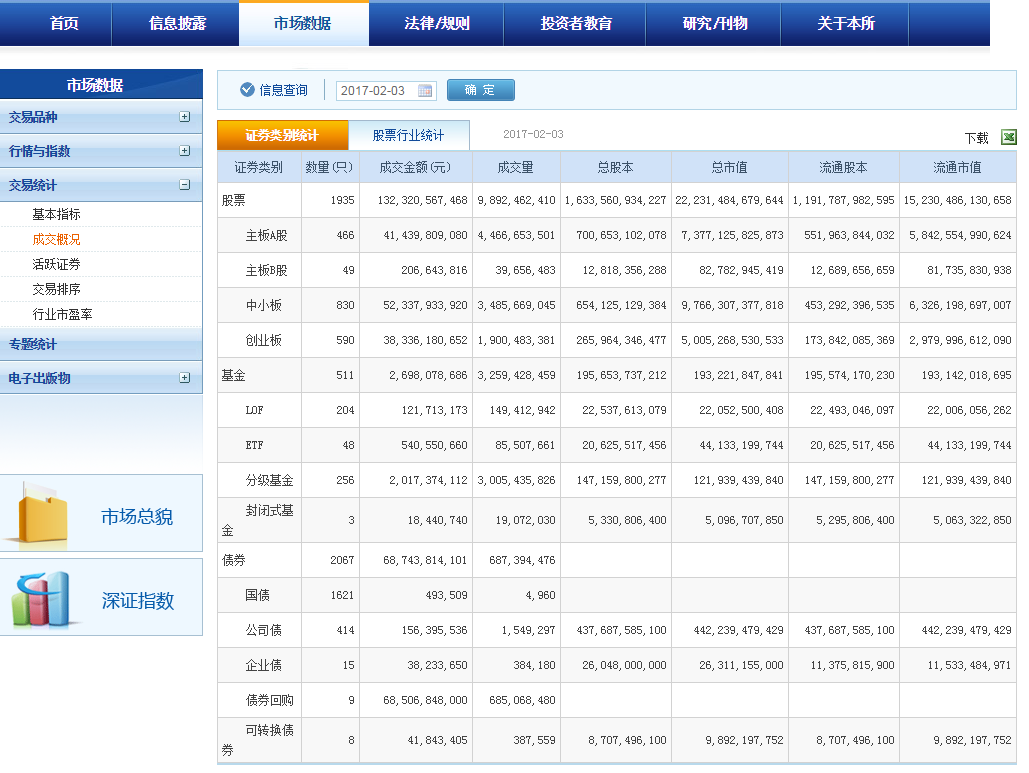
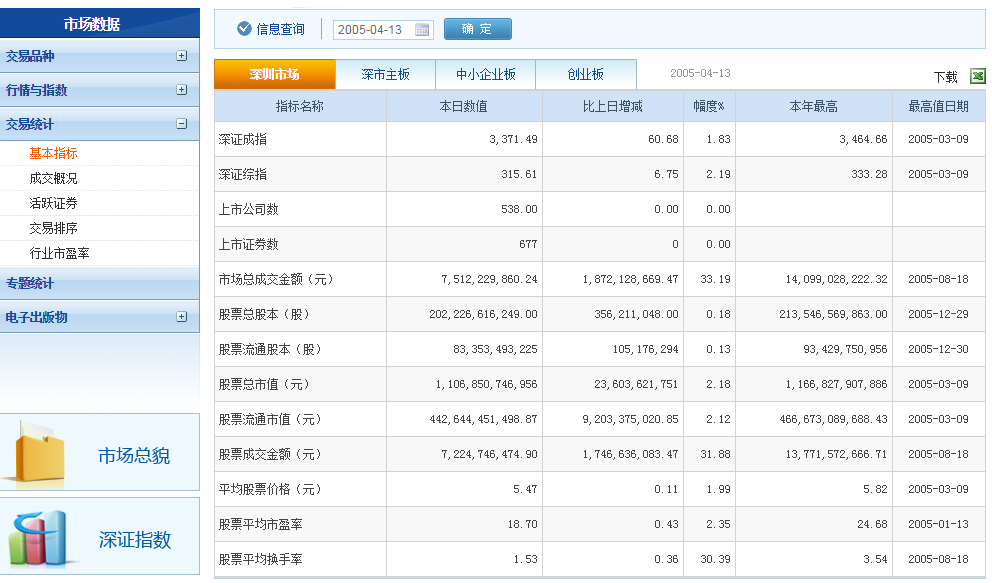
fix sthing

Changed region(s): [[0.0, 0.0, 1.0, 1.0]]

diff --git a/doc/shenzhen_stock_data_format.html b/doc/shenzhen_stock_data_format.html
@@ -1,7 +1,7 @@
-<table cellspacing='1' width="800" align="center">
+<table cellspacing='1' width="100%" align="center">
     <tr>
         <td align="left">
-            <table class="cls-search-table-common cls-search-table" width="800">
+            <table class="cls-search-table-common cls-search-table" width="100%">
                 <tbody>
                     <tr>
                         <td width="6" align="left" valign="top" background="/szseWeb/common/images/search05.gif">
@@ -23,10 +23,10 @@
                                     </td>
                                     <td align='left'>
                                         <span style="margin-left:5px;"></span>
-                                        <input value="2017-02-03" type="text" name="txtDate" id="1804_gid_tab1_con_txtDate" onkeypress="doReportInputboxClick(event,'1804','tab1')" class='cls-datepicker' onblur="blurJD()" onClick="getcalendar(this,'yyyy-mm-dd',event)" onFocus="this.select();" title="格式:YYYY-MM-DD" />
+                                        <input value="2005-04-13" type="text" name="txtQueryDate" id="1803_gid_tab1_con_txtQueryDate" onkeypress="doReportInputboxClick(event,'1803','tab1')" class='cls-datepicker' onblur="blurJD()" onClick="getcalendar(this,'yyyy-mm-dd',event)" onFocus="this.select();" title="格式:YYYY-MM-DD" />
                                         <input type='text' name='txtIgnore' style='display:none'>
                                             <span style="margin-left:10px;" />
-                                            <input type="button" id="1804_tab1_btn" value="" class="cls_search_button" onclick="submit1804tab1()" />
+                                            <input type="button" id="1803_tab1_btn" value="" class="cls_search_button" onclick="submit1803tab1()" />
                                             <td width="6" align="right" valign="top" background="/szseWeb/common/images/search06.gif">
                                                 <img src="/szseWeb/common/images/search03.gif" height="6" width="6" />
                                             </td>
@@ -42,190 +42,134 @@
                                                     <img src="/szseWeb/common/images/search04.gif" height="6" width="6" />
                                                 </td>
                                             </tr>
-                                            <table class='cls-title-table-common cls-title-table' bgcolor='#ffffff' width="800">
+                                            <table class='cls-title-table-common cls-title-table' bgcolor='#ffffff' width="100%">
                                                 <tr>
                                                     <td align='left' class='cls-title-td'>
-                                                    <div style='text-align:center;display:inline;width:110px;' class='cls-title-selected'>证券类别统计</div>
-                                                    <div style='text-align:center;display:inline;width:120px;' class='cls-title-deselected' onclick="switchTabItem('1804','tab2')">股票行业统计</div>&#160;&#160;&#160;
-                                                    <span class='cls-subtitle'>2017-02-03</span>
+                                                    <div style='text-align:center;display:inline;width:100px;' class='cls-title-selected'>深圳市场</div>
+                                                    <div style='text-align:center;display:inline;width:100px;' class='cls-title-deselected' onclick="switchTabItem('1803','tab2')">深市主板</div>
+                                                    <div style='text-align:center;display:inline;width:100px;' class='cls-title-deselected' onclick="switchTabItem('1803','tab3')">中小企业板</div>
+                                                    <div style='text-align:center;display:inline;width:100px;' class='cls-title-deselected' onclick="switchTabItem('1803','tab4')">创业板</div>&#160;&#160;&#160;
+                                                    <span class='cls-subtitle'>2005-04-13</span>
                                                     <span id='MESSAGE_ID'>&#160;</span></td>
                                                     <td>&#160;</td>
                                                     <td align='right' width='60px' valign='bottom'>
-                                                        <a href="/szseWeb/ShowReport.szse?SHOWTYPE=excel&amp;CATALOGID=1804&amp;txtDate=2017-02-03&amp;ENCODE=1&amp;TABKEY=tab1">下载&#160;
+                                                        <a href="/szseWeb/ShowReport.szse?SHOWTYPE=excel&amp;CATALOGID=1803&amp;txtQueryDate=2005-04-13&amp;ENCODE=1&amp;TABKEY=tab1">下载&#160;
                                                         <img style='VERTICAL-ALIGN: middle; padding-bottom:5px; border=' src='/szseWeb/common/images/excel.gif'>
-                                                            <table bgcolor='#E0E0E0' id="REPORTID_tab1" class='cls-data-table-common cls-data-table' border="0" cellspacing='1' width="800">
+                                                            <table bgcolor='#E0E0E0' id="REPORTID_tab1" class='cls-data-table-common cls-data-table' border="0" cellspacing='1' width="100%">
                                                                 <tr>
-                                                                    <th width='120px' bgcolor='#cde1fe'>证券类别</th>
-                                                                    <th width='80px' bgcolor='#cde1fe'>数量(只)</th>
-                                                                    <th width='120px' bgcolor='#cde1fe'>成交金额(元)</th>
-                                                                    <th width='80px' bgcolor='#cde1fe'>成交量</th>
-                                                                    <th width='100px' bgcolor='#cde1fe'>总股本</th>
-                                                                    <th width='100px' bgcolor='#cde1fe'>总市值</th>
-                                                                    <th width='100px' bgcolor='#cde1fe'>流通股本</th>
-                                                                    <th width='100px' bgcolor='#cde1fe'>流通市值</th>
+                                                                    <th bgcolor='#cde1fe'>指标名称</th>
+                                                                    <th bgcolor='#cde1fe'>本日数值</th>
+                                                                    <th bgcolor='#cde1fe'>比上日增减</th>
+                                                                    <th bgcolor='#cde1fe'>幅度%</th>
+                                                                    <th bgcolor='#cde1fe'>本年最高</th>
+                                                                    <th bgcolor='#cde1fe'>最高值日期</th>
                                                                 </tr>
                                                                 <tr bgcolor='#ffffff'>
-                                                                    <td width='120px' align='left'>股票</td>
-                                                                    <td width='80px' align='right'>1935</td>
-                                                                    <td width='120px' align='right'>132,320,567,468</td>
-                                                                    <td width='80px' align='right'>9,892,462,410</td>
-                                                                    <td width='100px' align='right'>1,633,560,934,227</td>
-                                                                    <td width='100px' align='right'>22,231,484,679,644</td>
-                                                                    <td width='100px' align='right'>1,191,787,982,595</td>
-                                                                    <td width='100px' align='right'>15,230,486,130,658</td>
+                                                                    <td align='left'>深证成指</td>
+                                                                    <td align='right'>3,371.49</td>
+                                                                    <td align='right'>60.68</td>
+                                                                    <td align='right'>1.83</td>
+                                                                    <td align='right'>3,464.66</td>
+                                                                    <td align='center'>2005-03-09</td>
                                                                 </tr>
                                                                 <tr bgcolor='#F8F8F8'>
-                                                                    <td width='120px' align='left'>&#160;&#160;主板A股</td>
-                                                                    <td width='80px' align='right'>466</td>
-                                                                    <td width='120px' align='right'>41,439,809,080</td>
-                                                                    <td width='80px' align='right'>4,466,653,501</td>
-                                                                    <td width='100px' align='right'>700,653,102,078</td>
-                                                                    <td width='100px' align='right'>7,377,125,825,873</td>
-                                                                    <td width='100px' align='right'>551,963,844,032</td>
-                                                                    <td width='100px' align='right'>5,842,554,990,624</td>
+                                                                    <td align='left'>深证综指</td>
+                                                                    <td align='right'>315.61</td>
+                                                                    <td align='right'>6.75</td>
+                                                                    <td align='right'>2.19</td>
+                                                                    <td align='right'>333.28</td>
+                                                                    <td align='center'>2005-03-09</td>
                                                                 </tr>
                                                                 <tr bgcolor='#ffffff'>
-                                                                    <td width='120px' align='left'>&#160;&#160;主板B股</td>
-                                                                    <td width='80px' align='right'>49</td>
-                                                                    <td width='120px' align='right'>206,643,816</td>
-                                                                    <td width='80px' align='right'>39,656,483</td>
-                                                                    <td width='100px' align='right'>12,818,356,288</td>
-                                                                    <td width='100px' align='right'>82,782,945,419</td>
-                                                                    <td width='100px' align='right'>12,689,656,659</td>
-                                                                    <td width='100px' align='right'>81,735,830,938</td>
+                                                                    <td align='left'>上市公司数</td>
+                                                                    <td align='right'>538.00</td>
+                                                                    <td align='right'>0.00</td>
+                                                                    <td align='right'>0.00</td>
+                                                                    <td align='right'></td>
+                                                                    <td align='center'></td>
                                                                 </tr>
                                                                 <tr bgcolor='#F8F8F8'>
-                                                                    <td width='120px' align='left'>&#160;&#160;中小板</td>
-                                                                    <td width='80px' align='right'>830</td>
-                                                                    <td width='120px' align='right'>52,337,933,920</td>
-                                                                    <td width='80px' align='right'>3,485,669,045</td>
-                                                                    <td width='100px' align='right'>654,125,129,384</td>
-                                                                    <td width='100px' align='right'>9,766,307,377,818</td>
-                                                                    <td width='100px' align='right'>453,292,396,535</td>
-                                                                    <td width='100px' align='right'>6,326,198,697,007</td>
+                                                                    <td align='left'>上市证券数</td>
+                                                                    <td align='right'>677</td>
+                                                                    <td align='right'>0</td>
+                                                                    <td align='right'>0.00</td>
+                                                                    <td align='right'></td>
+                                                                    <td align='center'></td>
                                                                 </tr>
                                                                 <tr bgcolor='#ffffff'>
-                                                                    <td width='120px' align='left'>&#160;&#160;创业板</td>
-                                                                    <td width='80px' align='right'>590</td>
-                                                                    <td width='120px' align='right'>38,336,180,652</td>
-                                                                    <td width='80px' align='right'>1,900,483,381</td>
-                                                                    <td width='100px' align='right'>265,964,346,477</td>
-                                                                    <td width='100px' align='right'>5,005,268,530,533</td>
-                                                                    <td width='100px' align='right'>173,842,085,369</td>
-                                                                    <td width='100px' align='right'>2,979,996,612,090</td>
+                                                                    <td align='left'>市场总成交金额（元）</td>
+                                                                    <td align='right'>7,512,229,860.24</td>
+                                                                    <td align='right'>1,872,128,669.47</td>
+                                                                    <td align='right'>33.19</td>
+                                                                    <td align='right'>14,099,028,222.32</td>
+                                                                    <td align='center'>2005-08-18</td>
                                                                 </tr>
                                                                 <tr bgcolor='#F8F8F8'>
-                                                                    <td width='120px' align='left'>基金</td>
-                                                                    <td width='80px' align='right'>511</td>
-                                                                    <td width='120px' align='right'>2,698,078,686</td>
-                                                                    <td width='80px' align='right'>3,259,428,459</td>
-                                                                    <td width='100px' align='right'>195,653,737,212</td>
-                                                                    <td width='100px' align='right'>193,221,847,841</td>
-                                                                    <td width='100px' align='right'>195,574,170,230</td>
-                                                                    <td width='100px' align='right'>193,142,018,695</td>
+                                                                    <td align='left'>股票总股本（股）</td>
+                                                                    <td align='right'>202,226,616,249.00</td>
+                                                                    <td align='right'>356,211,048.00</td>
+                                                                    <td align='right'>0.18</td>
+                                                                    <td align='right'>213,546,569,863.00</td>
+                                                                    <td align='center'>2005-12-29</td>
                                                                 </tr>
                                                                 <tr bgcolor='#ffffff'>
-                                                                    <td width='120px' align='left'>&#160;&#160;LOF</td>
-                                                                    <td width='80px' align='right'>204</td>
-                                                                    <td width='120px' align='right'>121,713,173</td>
-                                                                    <td width='80px' align='right'>149,412,942</td>
-                                                                    <td width='100px' align='right'>22,537,613,079</td>
-                                                                    <td width='100px' align='right'>22,052,500,408</td>
-                                                                    <td width='100px' align='right'>22,493,046,097</td>
-                                                                    <td width='100px' align='right'>22,006,056,262</td>
+                                                                    <td align='left'>股票流通股本（股）</td>
+                                                                    <td align='right'>83,353,493,225</td>
+                                                                    <td align='right'>105,176,294</td>
+                                                                    <td align='right'>0.13</td>
+                                                                    <td align='right'>93,429,750,956</td>
+                                                                    <td align='center'>2005-12-30</td>
                                                                 </tr>
                                                                 <tr bgcolor='#F8F8F8'>
-                                                                    <td width='120px' align='left'>&#160;&#160;ETF</td>
-                                                                    <td width='80px' align='right'>48</td>
-                                                                    <td width='120px' align='right'>540,550,660</td>
-                                                                    <td width='80px' align='right'>85,507,661</td>
-                                                                    <td width='100px' align='right'>20,625,517,456</td>
-                                                                    <td width='100px' align='right'>44,133,199,744</td>
-                                                                    <td width='100px' align='right'>20,625,517,456</td>
-                                                                    <td width='100px' align='right'>44,133,199,744</td>
+                                                                    <td align='left'>股票总市值（元）</td>
+                                                                    <td align='right'>1,106,850,746,956</td>
+                                                                    <td align='right'>23,603,621,751</td>
+                                                                    <td align='right'>2.18</td>
+                                                                    <td align='right'>1,166,827,907,886</td>
+                                                                    <td align='center'>2005-03-09</td>
                                                                 </tr>
                                                                 <tr bgcolor='#ffffff'>
-                                                                    <td width='120px' align='left'>&#160;&#160;分级基金</td>
-                                                                    <td width='80px' align='right'>256</td>
-                                                                    <td width='120px' align='right'>2,017,374,112</td>
-                                                                    <td width='80px' align='right'>3,005,435,826</td>
-                                                                    <td width='100px' align='right'>147,159,800,277</td>
-                                                                    <td width='100px' align='right'>121,939,439,840</td>
-                                                                    <td width='100px' align='right'>147,159,800,277</td>
-                                                                    <td width='100px' align='right'>121,939,439,840</td>
+                                                                    <td align='left'>股票流通市值（元）</td>
+                                                                    <td align='right'>442,644,451,498.87</td>
+                                                                    <td align='right'>9,203,375,020.85</td>
+                                                                    <td align='right'>2.12</td>
+                                                                    <td align='right'>466,673,089,688.43</td>
+                                                                    <td align='center'>2005-03-09</td>
                                                                 </tr>
                                                                 <tr bgcolor='#F8F8F8'>
-                                                                    <td width='120px' align='left'>&#160;&#160;封闭式基金</td>
-                                                                    <td width='80px' align='right'>3</td>
-                                                                    <td width='120px' align='right'>18,440,740</td>
-                                                                    <td width='80px' align='right'>19,072,030</td>
-                                                                    <td width='100px' align='right'>5,330,806,400</td>
-                                                                    <td width='100px' align='right'>5,096,707,850</td>
-                                                                    <td width='100px' align='right'>5,295,806,400</td>
-                                                                    <td width='100px' align='right'>5,063,322,850</td>
+                                                                    <td align='left'>股票成交金额（元）</td>
+                                                                    <td align='right'>7,224,746,474.90</td>
+                                                                    <td align='right'>1,746,636,083.47</td>
+                                                                    <td align='right'>31.88</td>
+                                                                    <td align='right'>13,771,572,666.71</td>
+                                                                    <td align='center'>2005-08-18</td>
                                                                 </tr>
                                                                 <tr bgcolor='#ffffff'>
-                                                                    <td width='120px' align='left'>债券</td>
-                                                                    <td width='80px' align='right'>2067</td>
-                                                                    <td width='120px' align='right'>68,743,814,101</td>
-                                                                    <td width='80px' align='right'>687,394,476</td>
-                                                                    <td width='100px' align='right'></td>
-                                                                    <td width='100px' align='right'></td>
-                                                                    <td width='100px' align='right'></td>
-                                                                    <td width='100px' align='right'></td>
+                                                                    <td align='left'>平均股票价格（元）</td>
+                                                                    <td align='right'>5.47</td>
+                                                                    <td align='right'>0.11</td>
+                                                                    <td align='right'>1.99</td>
+                                                                    <td align='right'>5.82</td>
+                                                                    <td align='center'>2005-03-09</td>
                                                                 </tr>
                                                                 <tr bgcolor='#F8F8F8'>
-                                                                    <td width='120px' align='left'>&#160;&#160;国债</td>
-                                                                    <td width='80px' align='right'>1621</td>
-                                                                    <td width='120px' align='right'>493,509</td>
-                                                                    <td width='80px' align='right'>4,960</td>
-                                                                    <td width='100px' align='right'></td>
-                                                                    <td width='100px' align='right'></td>
-                                                                    <td width='100px' align='right'></td>
-                                                                    <td width='100px' align='right'></td>
+                                                                    <td align='left'>股票平均市盈率</td>
+                                                                    <td align='right'>18.70</td>
+                                                                    <td align='right'>0.43</td>
+                                                                    <td align='right'>2.35</td>
+                                                                    <td align='right'>24.68</td>
+                                                                    <td align='center'>2005-01-13</td>
                                                                 </tr>
                                                                 <tr bgcolor='#ffffff'>
-                                                                    <td width='120px' align='left'>&#160;&#160;公司债</td>
-                                                                    <td width='80px' align='right'>414</td>
-                                                                    <td width='120px' align='right'>156,395,536</td>
-                                                                    <td width='80px' align='right'>1,549,297</td>
-                                                                    <td width='100px' align='right'>437,687,585,100</td>
-                                                                    <td width='100px' align='right'>442,239,479,429</td>
-                                                                    <td width='100px' align='right'>437,687,585,100</td>
-                                                                    <td width='100px' align='right'>442,239,479,429</td>
-                                                                </tr>
-                                                                <tr bgcolor='#F8F8F8'>
-                                                                    <td width='120px' align='left'>&#160;&#160;企业债</td>
-                                                                    <td width='80px' align='right'>15</td>
-                                                                    <td width='120px' align='right'>38,233,650</td>
-                                                                    <td width='80px' align='right'>384,180</td>
-                                                                    <td width='100px' align='right'>26,048,000,000</td>
-                                                                    <td width='100px' align='right'>26,311,155,000</td>
-                                                                    <td width='100px' align='right'>11,375,815,900</td>
-                                                                    <td width='100px' align='right'>11,533,484,971</td>
-                                                                </tr>
-                                                                <tr bgcolor='#ffffff'>
-                                                                    <td width='120px' align='left'>&#160;&#160;债券回购</td>
-                                                                    <td width='80px' align='right'>9</td>
-                                                                    <td width='120px' align='right'>68,506,848,000</td>
-                                                                    <td width='80px' align='right'>685,068,480</td>
-                                                                    <td width='100px' align='right'></td>
-                                                                    <td width='100px' align='right'></td>
-                                                                    <td width='100px' align='right'></td>
-                                                                    <td width='100px' align='right'></td>
-                                                                </tr>
-                                                                <tr bgcolor='#F8F8F8'>
-                                                                    <td width='120px' align='left'>&#160;&#160;可转换债券</td>
-                                                                    <td width='80px' align='right'>8</td>
-                                                                    <td width='120px' align='right'>41,843,405</td>
-                                                                    <td width='80px' align='right'>387,559</td>
-                                                                    <td width='100px' align='right'>8,707,496,100</td>
-                                                                    <td width='100px' align='right'>9,892,197,752</td>
-                                                                    <td width='100px' align='right'>8,707,496,100</td>
-                                                                    <td width='100px' align='right'>9,892,197,752</td>
+                                                                    <td align='left'>股票平均换手率</td>
+                                                                    <td align='right'>1.53</td>
+                                                                    <td align='right'>0.36</td>
+                                                                    <td align='right'>30.39</td>
+                                                                    <td align='right'>3.54</td>
+                                                                    <td align='center'>2005-08-18</td>
                                                                 </tr>
                                                             </table>
-                                                            <span style="display:none" id="szseWebReport_pageinfo_1804" catalogid="1804" tabkeys="tab1;" report_action="search" url="/szseWeb/FrontController.szse?ACTIONID=7&amp;AJAX=AJAX-TRUE&amp;CATALOGID=1804&amp;txtDate=2017-02-03&amp;TABKEY=tab1"></span>
+                                                            <span style="display:none" id="szseWebReport_pageinfo_1803" catalogid="1803" tabkeys="tab1;" report_action="search" url="/szseWeb/FrontController.szse?ACTIONID=7&amp;AJAX=AJAX-TRUE&amp;CATALOGID=1803&amp;txtQueryDate=2005-04-13&amp;TABKEY=tab1"></span>
                                                         </img></a>
                                                     </td>
                                                 </tr>

diff --git a/MainCrawler/MainCrawler/spiders/stockExchange.py b/MainCrawler/MainCrawler/spiders/stockExchange.py
@@ -88,10 +88,10 @@ class StockexchangeSpider(scrapy.Spider):
 		shenzhenFormdata={
 			"ACTIONID":"7",
 			"AJAX":"AJAX-TRUE",
-			"CATALOGID":"1804",
+			"CATALOGID":"1803",
 			"TABKEY":"tab1",
 			"REPORT_ACTION":"search",
-			"txtDate":"",
+			"txtQueryDate":"",
 		}
 		resultUrl=[]
 
@@ -110,11 +110,11 @@ class StockexchangeSpider(scrapy.Spider):
 
 			gapTimestamp=int(time.time())-tmpUpdateTime
 			if resultStockList[stocklistkey][14] is None or gapTimestamp>259200 or resultStockList[stocklistkey][12]<0:
-				urlShenzhen='http://www.szse.cn/szseWeb/FrontController.szse?randnum=0.8219'
+				urlShenzhen='http://www.szse.cn/szseWeb/FrontController.szse?randnum=0.5798621223025'
 				# TODO 请求错误处理
 				# print(str(resultStockList[stocklistkey][2]))
-				shenzhenFormdata['txtDate']=str(resultStockList[stocklistkey][2])
-				# shenzhenFormdata['txtDate']='2017-02-03'
+				shenzhenFormdata['txtQueryDate']=str(resultStockList[stocklistkey][2])
+				# shenzhenFormdata['txtQueryDate']='2005-04-13'
 				responsesss = scrapy.FormRequest(url=urlShenzhen,callback=self.indexDayParseShenzhen,formdata=shenzhenFormdata)
 				resultUrl.append(responsesss)
 
@@ -154,11 +154,14 @@ class StockexchangeSpider(scrapy.Spider):
 
 	def indexDayParseShenzhen(self,response):
 		print('-----------------indexDayParseShenzhen--!!------------------------')
+		# old
+		# currDate = response.xpath('//input[@id="1804_gid_tab1_con_txtDate"]/@value').extract()
+		# currDate = str(currDate[0])
+		# resultMarketValue=response.xpath('//table[@id="REPORTID_tab1"]/tr[2]/td[6]/text()').extract()
 
-		currDate = response.xpath('//input[@id="1804_gid_tab1_con_txtDate"]/@value').extract()
+		currDate = response.xpath('//input[@id="1803_gid_tab1_con_txtQueryDate"]/@value').extract()
 		currDate = str(currDate[0])
-
-		resultMarketValue=response.xpath('//table[@id="REPORTID_tab1"]/tr[2]/td[6]/text()').extract()
+		resultMarketValue=response.xpath('//table[@id="REPORTID_tab1"]/tr[9]/td[2]/text()').extract()
 		
 		print '~~~~~~~~~~today is '+currDate
 		
